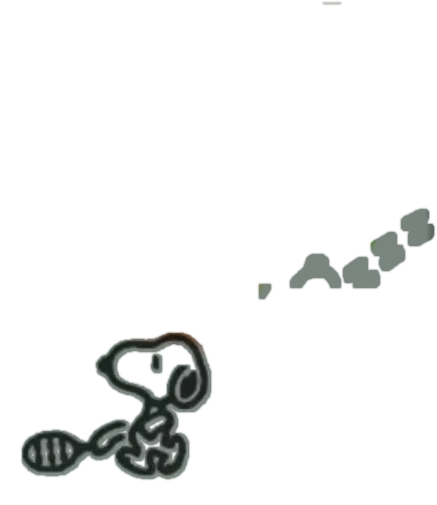
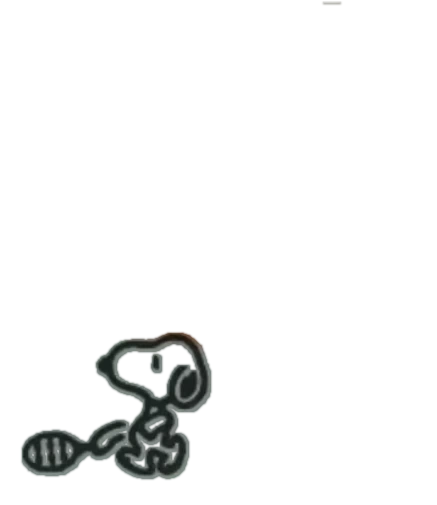
More of the original LCD: AM mark, GAME B label, Woodstocks, arcing lob, ready poses
Taken from a photo of the LCD with every segment lit:
- Clock shows AM in the morning; digits re-spaced like the original 12:00
- GAME A label at bottom-left, GAME B at bottom-right (only the active one)
- Woodstock pops up in the nest now and then (left, right or both)
- Two new ball positions: Charlie's top-lane shot now rises in an arc and the
  middle lane has an extra step
- Snoopy raises his racket while a ball is in reach; Lucy waits racket-down
  then raises it; Charlie's toss shows the ball above his head
- A missed ball flies on into the tree with speed lines before CRASH!
- The third MISS bird sits where the original puts it

Claude-Session: https://claude.ai/code/session_01F9zz5Cnvdqt99eQ18sZoej

Changed region(s): [[0.6545, 0.3861, 1.0, 0.5941], [0.5652, 0.5347, 0.6247, 0.5941]]

diff --git a/snoopy-tennis/index.html b/snoopy-tennis/index.html
@@ -137,22 +137,24 @@ html,body{margin:0;height:100%;background:radial-gradient(ellipse at 50% 45%,#3b
 <script>
 (()=>{
 "use strict";
-const ATLAS={"ch_ball":{"x":0,"y":370,"w":290,"h":262},"ch_toss":{"x":0,"y":370,"w":290,"h":262},"ch_idle":{"x":0,"y":370,"w":290,"h":262},"ch_pow":{"x":0,"y":370,"w":290,"h":262},"lu_up":{"x":0,"y":95,"w":230,"h":250},"lu_idle":{"x":0,"y":95,"w":230,"h":250},"lu_swing":{"x":0,"y":95,"w":230,"h":250},"sn_top_idle":{"x":560,"y":95,"w":437,"h":505},"sn_mid_idle":{"x":560,"y":95,"w":437,"h":505},"sn_bot_idle":{"x":560,"y":95,"w":437,"h":505},"sn_top_up":{"x":560,"y":95,"w":437,"h":505},"sn_top_swing":{"x":560,"y":95,"w":437,"h":505},"sn_bot_swing":{"x":560,"y":95,"w":437,"h":505},"sn_bot_up":{"x":560,"y":95,"w":437,"h":505},"sn_mid_up":{"x":560,"y":95,"w":437,"h":505},"sn_mid_swing":{"x":560,"y":95,"w":437,"h":505},"miss_txt":{"x":464,"y":4,"w":100,"h":40},"bird1":{"x":480,"y":46,"w":82,"h":71},"bird2":{"x":557,"y":46,"w":81,"h":71},"letterA":{"x":128,"y":590,"w":38,"h":38},"digits":{"ones":{"x":310,"y":0,"w":62,"h":100},"pitch":62,"h1":{"x":178,"y":0,"w":56,"h":100}},"pos":[[196.8,294.6],[198.2,133.6],[207.5,204.7],[273.6,345.0],[296.7,314.4],[296.9,375.1],[297.6,264.0],[301.0,213.4],[308.9,128.2],[344.0,311.6],[354.0,221.5],[377.3,375.0],[404.4,344.1],[405.4,129.8],[406.0,291.0],[410.5,233.4],[411.9,186.2],[460.2,382.1],[472.9,278.3],[474.7,162.5],[507.8,136.6],[508.3,378.8],[508.4,253.9],[544.9,405.1],[551.9,147.7],[611.8,276.6],[613.3,430.5],[618.7,147.8]],"sn_sleep":{"x":560,"y":95,"w":437,"h":505},"ch_away":{"x":0,"y":370,"w":290,"h":262},"cm_idle":{"x":296,"y":372,"w":354,"h":260},"cm_throw":{"x":296,"y":372,"w":354,"h":260},"crash":{"x":787,"y":117,"w":217,"h":229}};
+const ATLAS={"ch_ball":{"x":0,"y":370,"w":290,"h":262},"ch_toss":{"x":0,"y":370,"w":290,"h":262},"ch_idle":{"x":0,"y":370,"w":290,"h":262},"ch_pow":{"x":0,"y":370,"w":290,"h":262},"lu_up":{"x":0,"y":95,"w":230,"h":250},"lu_idle":{"x":0,"y":95,"w":230,"h":250},"lu_swing":{"x":0,"y":95,"w":230,"h":250},"sn_top_idle":{"x":560,"y":95,"w":437,"h":505},"sn_mid_idle":{"x":560,"y":95,"w":437,"h":505},"sn_bot_idle":{"x":560,"y":95,"w":437,"h":505},"sn_top_up":{"x":560,"y":95,"w":437,"h":505},"sn_top_swing":{"x":560,"y":95,"w":437,"h":505},"sn_bot_swing":{"x":560,"y":95,"w":437,"h":505},"sn_bot_up":{"x":560,"y":95,"w":437,"h":505},"sn_mid_up":{"x":560,"y":95,"w":437,"h":505},"sn_mid_swing":{"x":560,"y":95,"w":437,"h":505},"miss_txt":{"x":464,"y":4,"w":100,"h":40},"bird1":{"x":480,"y":46,"w":82,"h":71},"bird2":{"x":557,"y":46,"w":81,"h":71},"letterA":{"x":128,"y":590,"w":38,"h":38},"digits":{"ones":{"x":310,"y":0,"w":62,"h":100},"pitch":62,"h1":{"x":178,"y":0,"w":56,"h":100}},"pos":[[196.8,294.6],[198.2,133.6],[207.5,204.7],[273.6,345.0],[296.7,314.4],[296.9,375.1],[297.6,264.0],[301.0,213.4],[308.9,128.2],[344.0,311.6],[354.0,221.5],[377.3,375.0],[404.4,344.1],[405.4,129.8],[406.0,291.0],[410.5,233.4],[411.9,186.2],[460.2,382.1],[472.9,278.3],[474.7,162.5],[507.8,136.6],[508.3,378.8],[508.4,253.9],[544.9,405.1],[551.9,147.7],[611.8,276.6],[613.3,430.5],[618.7,147.8],[246,320],[544,275]],"sn_sleep":{"x":560,"y":95,"w":437,"h":505},"ch_away":{"x":0,"y":370,"w":290,"h":262},"cm_idle":{"x":296,"y":372,"w":354,"h":260},"cm_throw":{"x":296,"y":372,"w":354,"h":260},"crash":{"x":787,"y":117,"w":217,"h":229},"am":{"x":23,"y":7,"w":56,"h":33},"game_a":{"x":23,"y":593,"w":136,"h":31},"game_b":{"x":839,"y":588,"w":135,"h":37},"wood_l":{"x":793,"y":19,"w":73,"h":71},"wood_r":{"x":870,"y":22,"w":86,"h":68},"lu_low_rk":{"x":128,"y":258,"w":38,"h":73},"toss_fx":{"x":175,"y":336,"w":81,"h":66},"miss_ball0":{"x":777,"y":153,"w":77,"h":47},"miss_ball1":{"x":774,"y":296,"w":87,"h":60},"miss_ball2":{"x":799,"y":500,"w":56,"h":83}};
 const cv=document.getElementById('cv'),ctx=cv.getContext('2d');
 const W=997,H=632;
 ATLAS.bg={x:0,y:0,w:997,h:632};
-const POS=ATLAS.pos;                           // the 28 fixed ball positions of the LCD
+const POS=ATLAS.pos;                           // the fixed ball positions of the LCD (from the all-segments photo)
 // ball lanes (indexes into POS). Charlie's balls fly slowly, Lucy's twice as fast.
-const CHARLIE=[[6,10,16,19,24,27],[3,9,14,18,22,25],[5,11,17,23,26]];   // top, middle, bottom
-const LUCY   =[[1,8,13,20,27],[2,7,15,22,25],[0,4,12,21,26]];
+// Charlie's lanes: a rising lob to the top branch, a level drive to the middle, a low drive to the ground
+const CHARLIE=[[28,6,10,16,19,24,27],[3,9,14,18,29,25],[5,11,17,23,26]];   // top, middle, bottom
+const LUCY   =[[1,8,13,20,27],[2,7,15,22,25],[0,4,12,21,26]];   // Lucy's straight, faster shots
+const MISSPOS=[[832,180],[842,334],[834,565]];                   // a missed ball flies on into the tree
 const SPOT=['top','mid','bot'];
 const MAX_MISS=3;
 
 /* ---------- assets ---------- */
-const NAMES=['bg','ch_ball','ch_toss','ch_idle','ch_pow','lu_up','lu_idle','lu_swing','miss_txt','bird1','bird2',
+const NAMES=['am','game_a','game_b','wood_l','wood_r','lu_low_rk','toss_fx','miss_ball0','miss_ball1','miss_ball2','bg','ch_ball','ch_toss','ch_idle','ch_pow','lu_up','lu_idle','lu_swing','miss_txt','bird1','bird2',
   'sn_sleep','ch_away','cm_idle','cm_throw','crash',
   'sn_top_idle','sn_top_up','sn_top_swing','sn_mid_idle','sn_mid_up','sn_mid_swing','sn_bot_idle','sn_bot_up','sn_bot_swing'];
-const EXT={};
+const EXT={am:'png',game_a:'png',game_b:'png',wood_l:'png',wood_r:'png',lu_low_rk:'png',toss_fx:'png',miss_ball0:'png',miss_ball1:'png',miss_ball2:'png'};
 const IMG={};
 let loaded=0,total=NAMES.length+11;
 function load(key,src){const im=new Image();im.onload=()=>{loaded++};im.onerror=()=>{loaded++};im.src=src;IMG[key]=im}
@@ -168,6 +170,7 @@ let score=0,miss=0,spot=0;
 let best={A:0,B:0};try{best=JSON.parse(localStorage.getItem('snoopy-best')||'{"A":0,"B":0}')}catch(e){}
 let balls=[],serve=null,nextServe=0,pauseUntil=0,swingAt=-1e9,lucyHitAt=-1e9,chHitAt=-1e9,rallies={C:0,L:0},overAt=0,newBest=false,chIdleUntil=0;
 let hitBuffer=0;
+let wood={l:false,r:false,next:0};   // Woodstocks in the nest, at random
 let missSeq=null,deadPose=false;   // miss animation (timings measured from the original)
 const MS={crash:530,count:930,sleep:2100,walk:2900,throw:4100,end:5300};
 let paused=false,pausedAt=0,pausedTotal=0;
@@ -226,8 +229,8 @@ function launchCharlie(now,lane){
 }
 // Missed: the ball vanishes, CRASH! in the tree, a bird is added, Snoopy naps on his doghouse,
 // Charlie walks out and throws his racket, then play resumes.
-function doMiss(now){
-  balls=[];serve=null;hitBuffer=0;missSeq={t0:now,counted:false};
+function doMiss(now,lane){
+  balls=[];serve=null;hitBuffer=0;missSeq={t0:now,counted:false,lane};
   pauseUntil=now+MS.end;nextServe=pauseUntil+700;
   beep(160,.3,'sawtooth',.07,MS.crash/1000);beep(110,.35,'sawtooth',.07,MS.crash/1000+.16);
 }
@@ -290,7 +293,7 @@ function update(now){
     if(!b.ret){
       if(b.i<b.path.length-1){b.i++;b.next=now+(b.type==='C'?stepC():stepL());sTick();
         if(now<hitBuffer&&b.lane===spot&&b.i>=b.path.length-2){swingAt=now;tryHit(now)}}
-      else{doMiss(now);return}                       // ball sat at Snoopy's spot and nobody hit it
+      else{doMiss(now,b.lane);return}                       // ball sat at Snoopy's spot and nobody hit it
     }else{
       if(b.i<b.path.length-1){b.i++;b.next=now+stepL();sTick()}
       else if(b.to==='L'){                            // reached Lucy: she hits it back, faster
@@ -302,6 +305,12 @@ function update(now){
       }
     }
   }
+}
+
+function stepWood(now){
+  if(now<wood.next)return;
+  if(wood.l||wood.r){wood.l=wood.r=false;wood.next=now+3000+Math.random()*7000}
+  else{const k=Math.random();wood.l=k<.7;wood.r=k>.35;wood.next=now+1500+Math.random()*2500}
 }
 
 /* ---------- drawing ---------- */
@@ -323,12 +332,16 @@ function render(now){
   if(!ready()){ctx.fillStyle='#8f988f';ctx.fillRect(0,0,W,H);return}
   spr('bg');
   const playing=mode==='play';
+  if(!paused)stepWood(now);
+  if(wood.l)spr('wood_l');if(wood.r)spr('wood_r');
 
   // Lucy (appears when she is about to hit / hitting)
   const lucyHitting=now-lucyHitAt<420;
   const lucyNear=balls.some(b=>b.ret&&b.to==='L'&&b.i>=b.path.length-2);
   const me=missSeq?now-missSeq.t0:(deadPose?1e9:-1);   // time into the miss animation
-  if(me<0){if(lucyHitting)spr('lu_swing');else if(lucyNear)spr('lu_up')}
+  // Lucy waits with her racket down, raises it as the ball arrives, then swings
+  const lucyComing=balls.some(b=>b.ret&&b.to==='L'&&b.i>=b.path.length-3);
+  if(me<0){if(lucyHitting)spr('lu_swing');else if(lucyNear)spr('lu_up');else if(lucyComing){spr('lu_idle');spr('lu_low_rk')}}
 
   // Charlie
   if(me>=MS.walk)spr('ch_away');   // Charlie in the middle is drawn after Snoopy (his racket reaches into that area)
@@ -339,17 +352,22 @@ function render(now){
     else if(serve){const a=now-serve.t0;ch=a<350?'ch_ball':a<700?'ch_toss':'ch_pow'}
     else if(chNear||now<chIdleUntil)ch='ch_idle';         // racket ready for an incoming return
     spr(ch);
+    if(ch==='ch_toss')spr('toss_fx');                     // the ball tossed above his head
   }
-  // GAME A / GAME B label: the word "GAME" is original art, the letter is drawn to match
-  ctx.save();ctx.fillStyle='#262b26';ctx.font='bold 41px Arial, Helvetica, sans-serif';ctx.textBaseline='alphabetic';ctx.scale(.88,1);ctx.fillText(game,136/.88,623);ctx.restore()
+  // GAME A label at the left, GAME B at the right (none in clock mode), as on the LCD
+  if(mode!=='clock')spr(game==='A'?'game_a':'game_b');
 
   // Snoopy
   if(me>=MS.sleep)spr('sn_sleep');
   else{
     const age=now-swingAt;
-    const pose=me>=0?'idle':age<120?'up':age<420?'swing':'idle';
+    // racket raised (ready to smash) while a ball is in reach on his branch
+    const ready=balls.some(b=>!b.ret&&b.lane===spot&&b.i>=b.path.length-2);
+    const pose=me>=0?'idle':age<120?'up':age<420?'swing':ready?'up':'idle';
     spr(`sn_${SPOT[spot]}_${pose}`);
   }
+  if(missSeq&&me<450){const L=missSeq.lane;spr('miss_ball'+L);const [x,y]=MISSPOS[L];
+    ctx.fillStyle='#161a16';ctx.beginPath();ctx.ellipse(x,y,19.5,12,0,0,Math.PI*2);ctx.fill()}
   if(me>=MS.crash&&me<MS.walk)spr('crash');
   if(me>=MS.walk)spr(me>=MS.throw?'cm_throw':'cm_idle');
 
@@ -358,7 +376,7 @@ function render(now){
     spr('miss_txt');
     for(let i=0;i<Math.min(miss,MAX_MISS);i++){
       const a=ATLAS[i===0?'bird1':'bird2'],im=IMG[i===0?'bird1':'bird2'];
-      const x=a.x+(i===2?77:0);
+      const x=i===2?ATLAS.bird1.x-75:a.x;                // the third bird sits to the left of the others
       if(im&&im.complete)ctx.drawImage(im,x,a.y,a.w,a.h);
     }
   }
@@ -369,10 +387,11 @@ function render(now){
   // score / clock
   if(mode==='clock'){
     const d=new Date();let h=d.getHours()%12;if(h===0)h=12;const mi=d.getMinutes();
+    if(d.getHours()<12)spr('am');                         // AM mark (no mark in the afternoon)
     const t=[Math.floor(h/10)||null,h%10,Math.floor(mi/10),mi%10];
-    const CX=[124,186,296,358];   // hour cells, then a gap for the colon, then minute cells
+    const CX=[94,156,248,310];    // hour cells, colon, minute cells (minutes share the score's cells)
     for(let k=0;k<4;k++){if(t[k]===null)continue;const im=IMG['d'+t[k]];if(im&&im.complete)ctx.drawImage(im,CX[k],0,ATLAS.digits.ones.w,ATLAS.digits.ones.h)}
-    if(Math.floor(now/500)%2===0){ctx.fillStyle='#1a201a';ctx.beginPath();ctx.ellipse(277,33,6,6,0,0,Math.PI*2);ctx.ellipse(271,66,6,6,0,0,Math.PI*2);ctx.fill()}  // slanted like the digits
+    if(Math.floor(now/500)%2===0){ctx.fillStyle='#1a201a';ctx.beginPath();ctx.ellipse(236,35,6,6,0,0,Math.PI*2);ctx.ellipse(232,64,6,6,0,0,Math.PI*2);ctx.fill()}  // slanted like the digits
   }else{
     const blink=mode==='over'&&now-overAt<3500&&Math.floor(now/260)%2===1;
     if(!blink)digits(score);

diff --git a/snoopy-tennis/sw.js b/snoopy-tennis/sw.js
@@ -1,5 +1,5 @@
-const CACHE = 'snoopy-tennis-v24';
-const ASSETS = ['./', 'index.html', 'manifest.json', 'favicon-32.png', 'apple-touch-icon.png', 'icon-192.png', 'icon-512.png', 'assets/atlas.json', 'assets/bg.webp', 'assets/bird1.webp', 'assets/bird2.webp', 'assets/ch_ball.webp', 'assets/ch_idle.webp', 'assets/ch_pow.webp', 'assets/ch_away.webp', 'assets/cm_idle.webp', 'assets/cm_throw.webp', 'assets/crash.webp', 'assets/sn_sleep.webp', 'assets/ch_toss.webp', 'assets/d0.png', 'assets/d1.png', 'assets/d2.png', 'assets/d3.png', 'assets/d4.png', 'assets/d5.png', 'assets/d6.png', 'assets/d7.png', 'assets/d8.png', 'assets/d9.png', 'assets/device.jpg', 'assets/h1.png', 'assets/led.png', 'assets/lu_idle.webp', 'assets/lu_swing.webp', 'assets/lu_up.webp', 'assets/miss_txt.webp', 'assets/pill.png', 'assets/sn_bot_idle.webp', 'assets/sn_bot_swing.webp', 'assets/sn_bot_up.webp', 'assets/sn_mid_idle.webp', 'assets/sn_mid_swing.webp', 'assets/sn_mid_up.webp', 'assets/sn_top_idle.webp', 'assets/sn_top_swing.webp', 'assets/sn_top_up.webp'];
+const CACHE = 'snoopy-tennis-v25';
+const ASSETS = ['./', 'index.html', 'manifest.json', 'favicon-32.png', 'apple-touch-icon.png', 'icon-192.png', 'icon-512.png', 'assets/atlas.json', 'assets/bg.webp', 'assets/am.png', 'assets/game_a.png', 'assets/game_b.png', 'assets/wood_l.png', 'assets/wood_r.png', 'assets/lu_low_rk.png', 'assets/toss_fx.png', 'assets/miss_ball0.png', 'assets/miss_ball1.png', 'assets/miss_ball2.png', 'assets/bird1.webp', 'assets/bird2.webp', 'assets/ch_ball.webp', 'assets/ch_idle.webp', 'assets/ch_pow.webp', 'assets/ch_away.webp', 'assets/cm_idle.webp', 'assets/cm_throw.webp', 'assets/crash.webp', 'assets/sn_sleep.webp', 'assets/ch_toss.webp', 'assets/d0.png', 'assets/d1.png', 'assets/d2.png', 'assets/d3.png', 'assets/d4.png', 'assets/d5.png', 'assets/d6.png', 'assets/d7.png', 'assets/d8.png', 'assets/d9.png', 'assets/device.jpg', 'assets/h1.png', 'assets/led.png', 'assets/lu_idle.webp', 'assets/lu_swing.webp', 'assets/lu_up.webp', 'assets/miss_txt.webp', 'assets/pill.png', 'assets/sn_bot_idle.webp', 'assets/sn_bot_swing.webp', 'assets/sn_bot_up.webp', 'assets/sn_mid_idle.webp', 'assets/sn_mid_swing.webp', 'assets/sn_mid_up.webp', 'assets/sn_top_idle.webp', 'assets/sn_top_swing.webp', 'assets/sn_top_up.webp'];
 self.addEventListener('install', e => {
   e.waitUntil(caches.open(CACHE).then(c => c.addAll(ASSETS)).then(() => self.skipWaiting()));
 });
